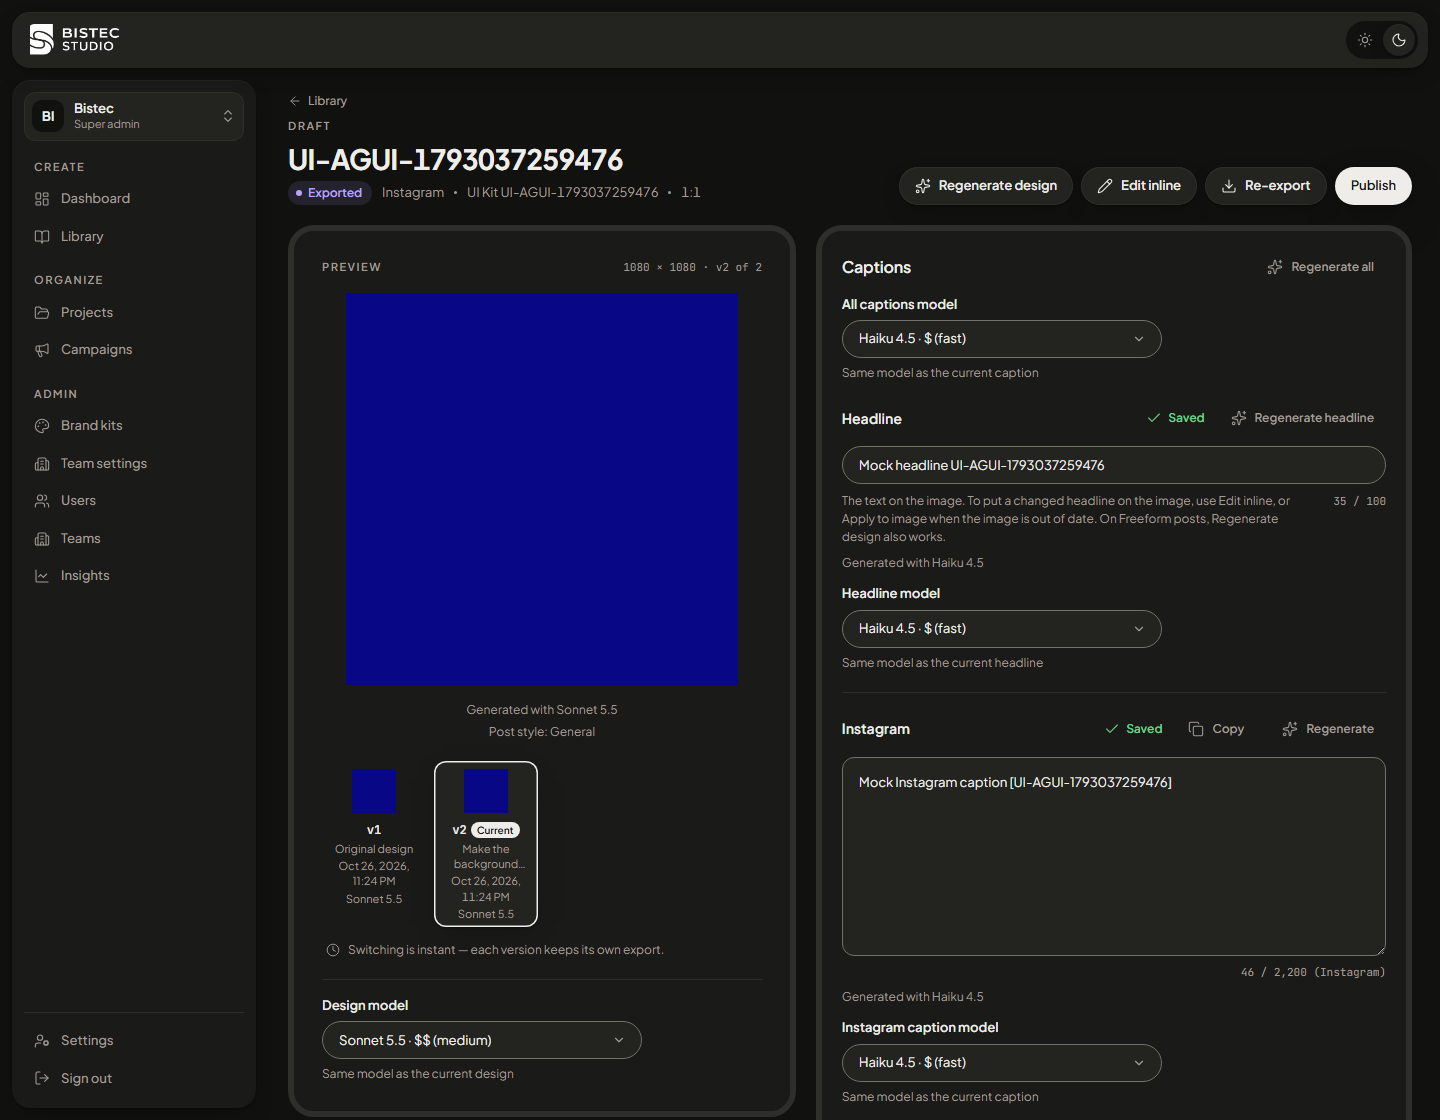
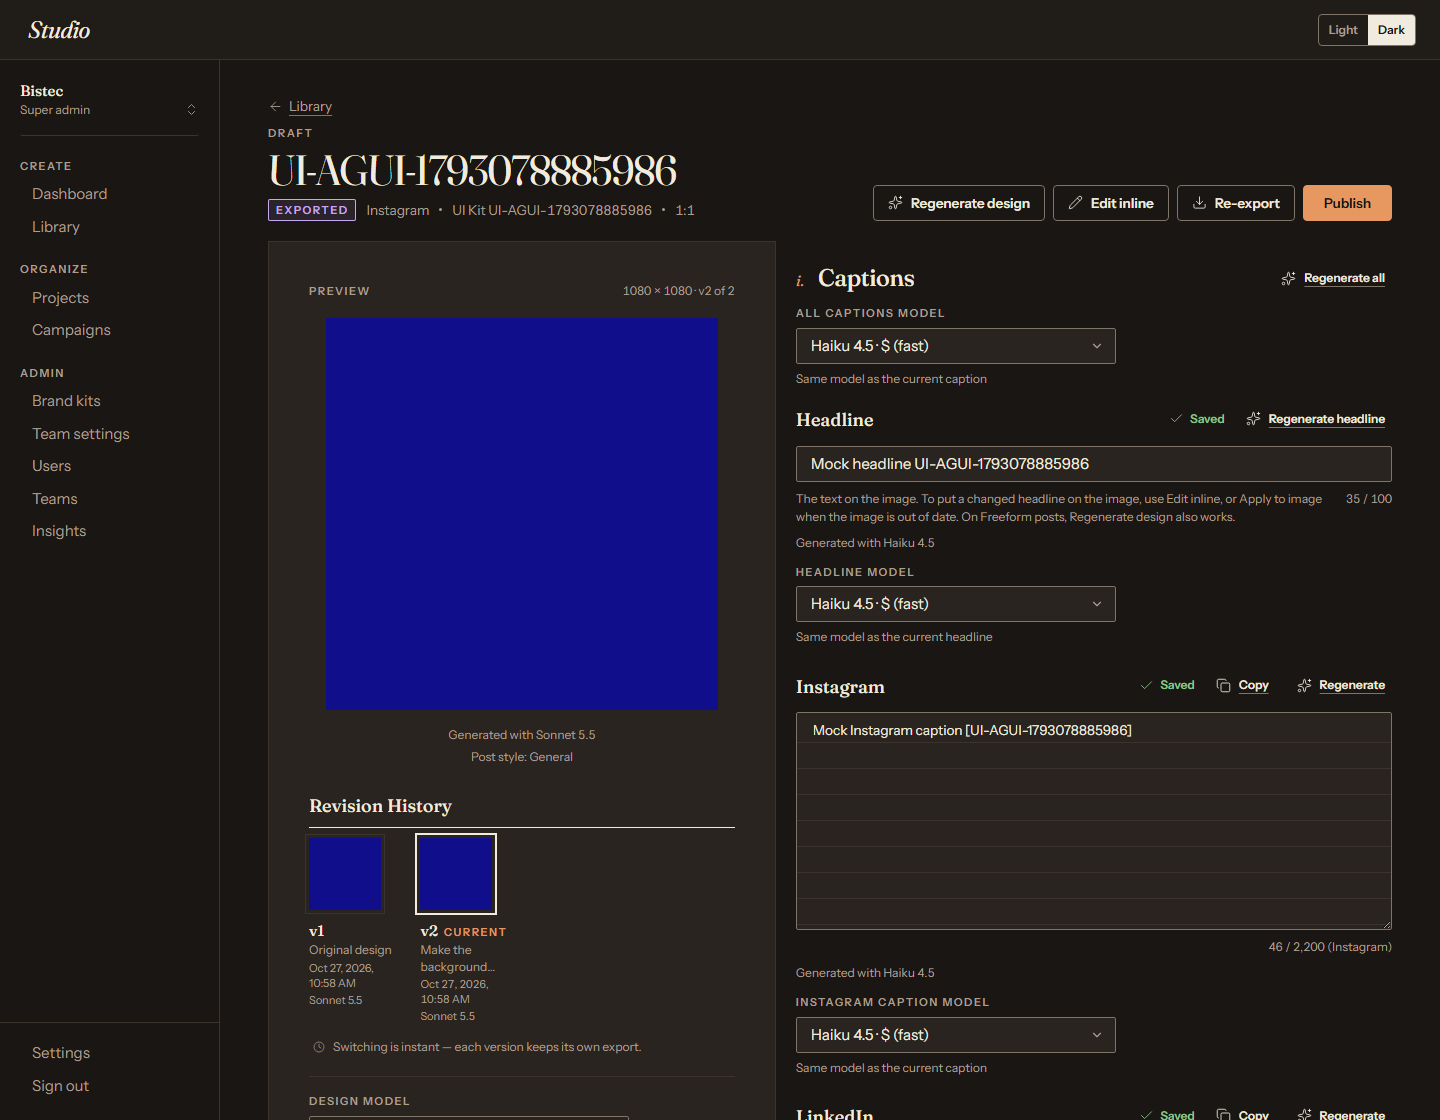
specclaw(032-fork-folio-restore): T12 — W3 gate, screenshots and docs
W3_DONE is set and PENDING_RESTYLE is empty. The reference screenshots are
recaptured in Folio (light and dark), and ui-captures/032 holds every
screen for review. Gate: tsc clean, lint 0/7, unit 4579, render 154,
upgrade and the Folio restore check pass, mock E2E 597 + 1 flaky / 3 / 0,
build passes. NFR-01's diff from the W1 tip is empty. CLAUDE.md Current
state: 032 is built; next, the captures review and /specclaw:verify.

diff --git a/tests/unit/uiTokenGuard.test.ts b/tests/unit/uiTokenGuard.test.ts
@@ -92,7 +92,7 @@ const GRAPHITE_DENY: Array<{ label: string; re: RegExp; codeOnly?: true }> = [
 // restyled yet (032 design §2.2). Each is exempt from GRAPHITE_DENY and from
 // the shared-name guard until its W3 task removes it. W3's last task sets
 // W3_DONE and the list must then be empty.
-const W3_DONE = false
+const W3_DONE = true
 const PENDING_RESTYLE: readonly string[] = []
 
 const SHARED_NAME =

diff --git a/.specclaw/changes/032-fork-folio-restore/reports/T12.md b/.specclaw/changes/032-fork-folio-restore/reports/T12.md
@@ -1,0 +1,70 @@
+# T12 — Screenshots, W3 gate, docs, scan and push
+
+**Run by:** the orchestrator. The gate ran as one shell script in the background, and the captures ran against the same mock server.
+
+## What changed
+
+- `tests/unit/uiTokenGuard.test.ts`: `W3_DONE = true`. `PENDING_RESTYLE` was already `[]` after T8, and the guard passes with both (AC-19).
+- `docs/ui-reference/screen-light.png` and `screen-dark.png`: recaptured with 011 T13's method (031 FR-04). That is the draft review page of the newest EXPORTED draft (`cmvq8vf7w0eqx26pxhscglkp8`) on the mock test server, at a 1440 × 1120 viewport, with `nextjs-portal` hidden. Dark was confirmed by the `dark` class on `<html>`. Both were viewed: the italic typeset "Studio" wordmark, Fraunces headings, small-caps labels, numbered sections, ruled caption fields, the flat 60 px header and the 220 px ruled sidebar (AC-22).
+- `ui-captures/032/`: 62 screenshots from `node scripts/capture-ui.mjs --out ui-captures/032`, covering every screen in light and dark at 1440 and 375 px (gitignored, for the user's review).
+- `CLAUDE.md` "Current state" says:
+  - 032 is built;
+  - the next step is the user's review of the captures, then `/specclaw:verify`;
+  - CI has created no run since 2026-10-14;
+  - GitHub Desktop re-adds an `upstream` remote;
+  - the W3 follow-ups are listed for the user.
+- `docs/e2e-test-plan.md`: the latest-gate line.
+
+## How W3 ran
+
+T8 to T11 were built in a git worktree (`D:\ai-studio-w3`, branch `w3`, `node_modules` as a junction) while the W2 gates ran in the main checkout. T8 and T9 were fast-forwarded onto `v2`, and T10 and T11 were cherry-picked after the W2 docs commit. The worktree and the branch are removed. Each task had its own implementer and `specclaw:code-reviewer` (NOTE or PASS, no WARN or BLOCK), and the orchestrator re-ran tsc, lint, unit and the restore check before each commit.
+
+## Gate (AC-23)
+
+| Check                                    | Result                                                                    |
+| ---------------------------------------- | ------------------------------------------------------------------------- |
+| `npx tsc --noEmit`                       | exit 0                                                                    |
+| `npm run lint`                           | 0 errors, 7 warnings                                                      |
+| `npm run test:unit`                      | 4579 passed (203 files)                                                   |
+| `npm run test:render`                    | 154 passed                                                                |
+| `npm run test:upgrade`                   | pass                                                                      |
+| `node scripts/check-folio-restore.mjs`   | exit 0, "all restored files match" (AC-14)                                |
+| `npm run test:e2e:db -- --reset`         | pass                                                                      |
+| `npm run test:e2e:mock` (clean, `:3001`) | **597 passed + 1 flaky / 3 skipped / 0 failed** (14.6 min), `MOCK_EXIT=0` |
+| `npm run build`                          | pass                                                                      |
+
+- **The flaky case:** `image-looks.test.ts` TC-LOOK-10 (the wizard picker at all sizes, with axe on step 1) failed once and passed on retry.
+- **Earlier gates in this wave:**
+  - The W2 gate on `242a4409` failed one case, `surfaces` AC-11, which asserted Graphite's 18 px header radius. T9 adapted it.
+  - The gate on `db6f471b` had one flaky case, at 0 ms.
+- **Unit count:** 4579 against the 031 baseline of 4553 (T7 report: the 47 Folio deny-list cases were dropped by design §4.3).
+
+## Other ACs
+
+- **AC-17:** `git grep -nE 'Plus Jakarta|BistecStudioLogo|rounded-ui-xl|tracking-label' -- src tailwind.config.ts` → only `src/lib/fonts/catalogue.json:10795` (post font data).
+- **AC-20 (NFR-01):** `git diff --name-only b124aa0d HEAD -- src/lib src/app/api src/providers src/scheduler src/mcp prisma src/scripts` is empty.
+- **AC-21:** `DESIGN_SYSTEM.md` §8.20 to §8.27 cover:
+  - §8.20: the draft-page notices, including the composition and screenshot notice;
+  - §8.21: the facts-check notice, the stale-headline badge and Apply to image;
+  - §8.22: the post style picker;
+  - §8.23: the image look picker;
+  - §8.24: the rule review panel;
+  - §8.25: the script font picker;
+  - §8.26: the caption route card;
+  - §8.27: the insights page.
+
+## Push and CI
+
+Covered in `reports/pre-push-scan.md` (W3 section).
+
+## Verification
+
+Command: `npm run test:e2e:mock` (full clean run, from the gate script)
+Exit: 0
+Output (tail):
+
+```
+  1 flaky
+  3 skipped
+  597 passed (14.6m)
+```

diff --git a/docs/e2e-test-plan.md b/docs/e2e-test-plan.md
@@ -1,7 +1,7 @@
 # bistec-studio — E2E Test Plan
 
 **Created:** 2026-06-23
-**Status:** ✅ Full §6 catalog implemented **and green**. **Latest full clean mock gate (change 031 T19, 2026-10-26): 598/3/0/0.** The 025 T12 gate before it was 548/3/0/0. The 006 T6 gate before it was 473/3/0/1 (the one flaky was a Playwright worker-process crash in `regression.test.ts` H7, not an assertion; that suite then re-ran clean 3 of 3) (the 026 gate before it was 444 / 3 / 0 / 0; the 009 gate, 2026-10-21, was 422 passed / 3 skipped / 0 failed / 0 flaky) (the 023 gate before it was 405 / 3 / 0 / 0; the 016 gate was 386 / 3 / 0 / 0). The older counts below are history. **Unit as of 2026-07-27 (PR #40): 322/322.** The CI gate (`.github/workflows/e2e.yml`) passed on PRs #38, #39 and #40. Last full _local_ run with recorded counts (2026-07-22, `feature/team-tenancy` branch, post TC-REG-H7a de-flake): **171 passed, 4 skipped, 0 failed** (175 tests total; 0 flaky — TC-REG-H7a's parallel-fire assertion was rewritten to a timing-robust integrity invariant, see below), unit **264/264** at that time.
+**Status:** ✅ Full §6 catalog implemented **and green**. **Latest full clean mock gate (change 032 T12, 2026-10-27, on the fork stack): 597 passed + 1 flaky / 3 skipped / 0 failed** (the flaky case, `image-looks` TC-LOOK-10, passed on retry). The 031 T19 gate before it was 598/3/0/0. The 025 T12 gate before it was 548/3/0/0. The 006 T6 gate before it was 473/3/0/1 (the one flaky was a Playwright worker-process crash in `regression.test.ts` H7, not an assertion; that suite then re-ran clean 3 of 3) (the 026 gate before it was 444 / 3 / 0 / 0; the 009 gate, 2026-10-21, was 422 passed / 3 skipped / 0 failed / 0 flaky) (the 023 gate before it was 405 / 3 / 0 / 0; the 016 gate was 386 / 3 / 0 / 0). The older counts below are history. **Unit as of 2026-07-27 (PR #40): 322/322.** The CI gate (`.github/workflows/e2e.yml`) passed on PRs #38, #39 and #40. Last full _local_ run with recorded counts (2026-07-22, `feature/team-tenancy` branch, post TC-REG-H7a de-flake): **171 passed, 4 skipped, 0 failed** (175 tests total; 0 flaky — TC-REG-H7a's parallel-fire assertion was rewritten to a timing-robust integrity invariant, see below), unit **264/264** at that time.
 
 Last full run on `main` (2026-07-13, post brief-draft-recovery §P): **132 passed, 0 failed, 7 skipped** (`npm run test:e2e:mock`; the machine lacked `BISTEC_API_KEYS` in `.env.test`, so 3 §J ACP-auth cases skipped on top of the 4 intentional skips below — CI sets the keys as job env and runs them). The 2026-07-13 feature batch added `async-generation.test.ts` (F1 async + retry), a version back/forward-jump case (F2), F4 auto-scheduling cases in `campaign-scheduling.test.ts`, `brandkit-assistant.test.ts` (F5), and `image-to-template.test.ts` (F6); generation-dependent suites now poll via the `waitForDraft` helper (generation is async). A GitHub Actions gate (`.github/workflows/e2e.yml`) runs the whole suite — including the §K security-fix regressions — on every PR and push to `main`, and is **green as of 2026-07-13** (it had been red for weeks on a bad CI `TOKEN_ENCRYPTION_KEY` — it MUST be a valid 64-char hex string, else `crypto.ts` throws and the credential-encrypting routes 500). Runs on GitHub-hosted `ubuntu-latest` with the actions on the Node 24 runtime.
 

diff --git a/CLAUDE.md b/CLAUDE.md
@@ -11,8 +11,10 @@ This repo contains planning documents for **bistec-studio**, an internal marketi
 - Nothing deploys yet. The user will deploy to their own server, with a workflow written later. CI is checks only.
 - Object storage is `pgsty/silo`, pinned by digest in the compose files and `e2e.yml`, so a fresh deploy needs no MinIO migration. MinIO keys must not be `minioadmin`.
 - Local stack: compose project `ai-studio`; Postgres on 5442, MinIO on 9100 (console 9101); databases `ai_studio` and `ai_studio_test`. A preflight refuses another clone's stack. Use `npm run db:migrate` and `npm run test:e2e:db -- --reset`, never a bare `prisma migrate deploy`. See [`docs/cold-start.md`](docs/cold-start.md).
-- Change in flight: 032 (fork restore: the Folio theme, checks-only CI, the fork's own stack). T1 to T6 are done, T7 (the guards flipped to Folio, the tests adapted and these docs) is in this commit, and the next task is T8, the start of W3 (restyle the 023–031 screens). Plan: [`spec.md`](.specclaw/changes/032-fork-folio-restore/spec.md), [`tasks.md`](.specclaw/changes/032-fork-folio-restore/tasks.md). Run `/specclaw:build 032-fork-folio-restore`.
-- No new UI work until 032 W3 lands.
+- Change 032 (fork restore: the Folio theme, checks-only CI, the fork's own stack) is BUILT (T1–T12). Next: the user reviews the screen captures in `ui-captures/032/` (gitignored, light and dark), then `/specclaw:verify 032-fork-folio-restore`. Plan and reports: [`spec.md`](.specclaw/changes/032-fork-folio-restore/spec.md), [`tasks.md`](.specclaw/changes/032-fork-folio-restore/tasks.md), `reports/`.
+- **CI has not run since 2026-10-14.** The pushes of `b124aa0d` and `0af87398` reached GitHub, but GitHub created no workflow run for either (Actions enabled, workflow active). Check the repo's Actions tab before relying on CI.
+- GitHub Desktop on this machine re-adds an `upstream` remote (`bistec-oss/studio`) for the fork. Never push to it.
+- Follow-ups from 032 W3, for the user to decide: the sidebar nav icons are kept in the markup with `hidden` (the restyle rule forbade removing elements); the assistant drawers' Send button stays icon-only (Folio showed the word "Send"); the proof-plate crop marks were not restored.
 
 ### Working rules
 

diff --git a/.specclaw/changes/032-fork-folio-restore/tasks.md b/.specclaw/changes/032-fork-folio-restore/tasks.md
@@ -151,7 +151,7 @@ Each group task: restyle its files (design §5 "How to restyle a file"), remove 
   - Model: sonnet
   - Depends: T10
 
-- [ ] `T12` — Screenshots, W3 gate, docs, scan and push
+- [x] `T12` — Screenshots, W3 gate, docs, scan and push
   - Files: `tests/unit/uiTokenGuard.test.ts` (`W3_DONE = true`), `docs/ui-reference/screen-light.png`, `docs/ui-reference/screen-dark.png`, `CLAUDE.md` (Current state), `docs/e2e-test-plan.md` (counts), `reports/pre-push-scan.md`, `reports/T12.md`
   - Estimate: medium (one full E2E run)
   - Kind: test
